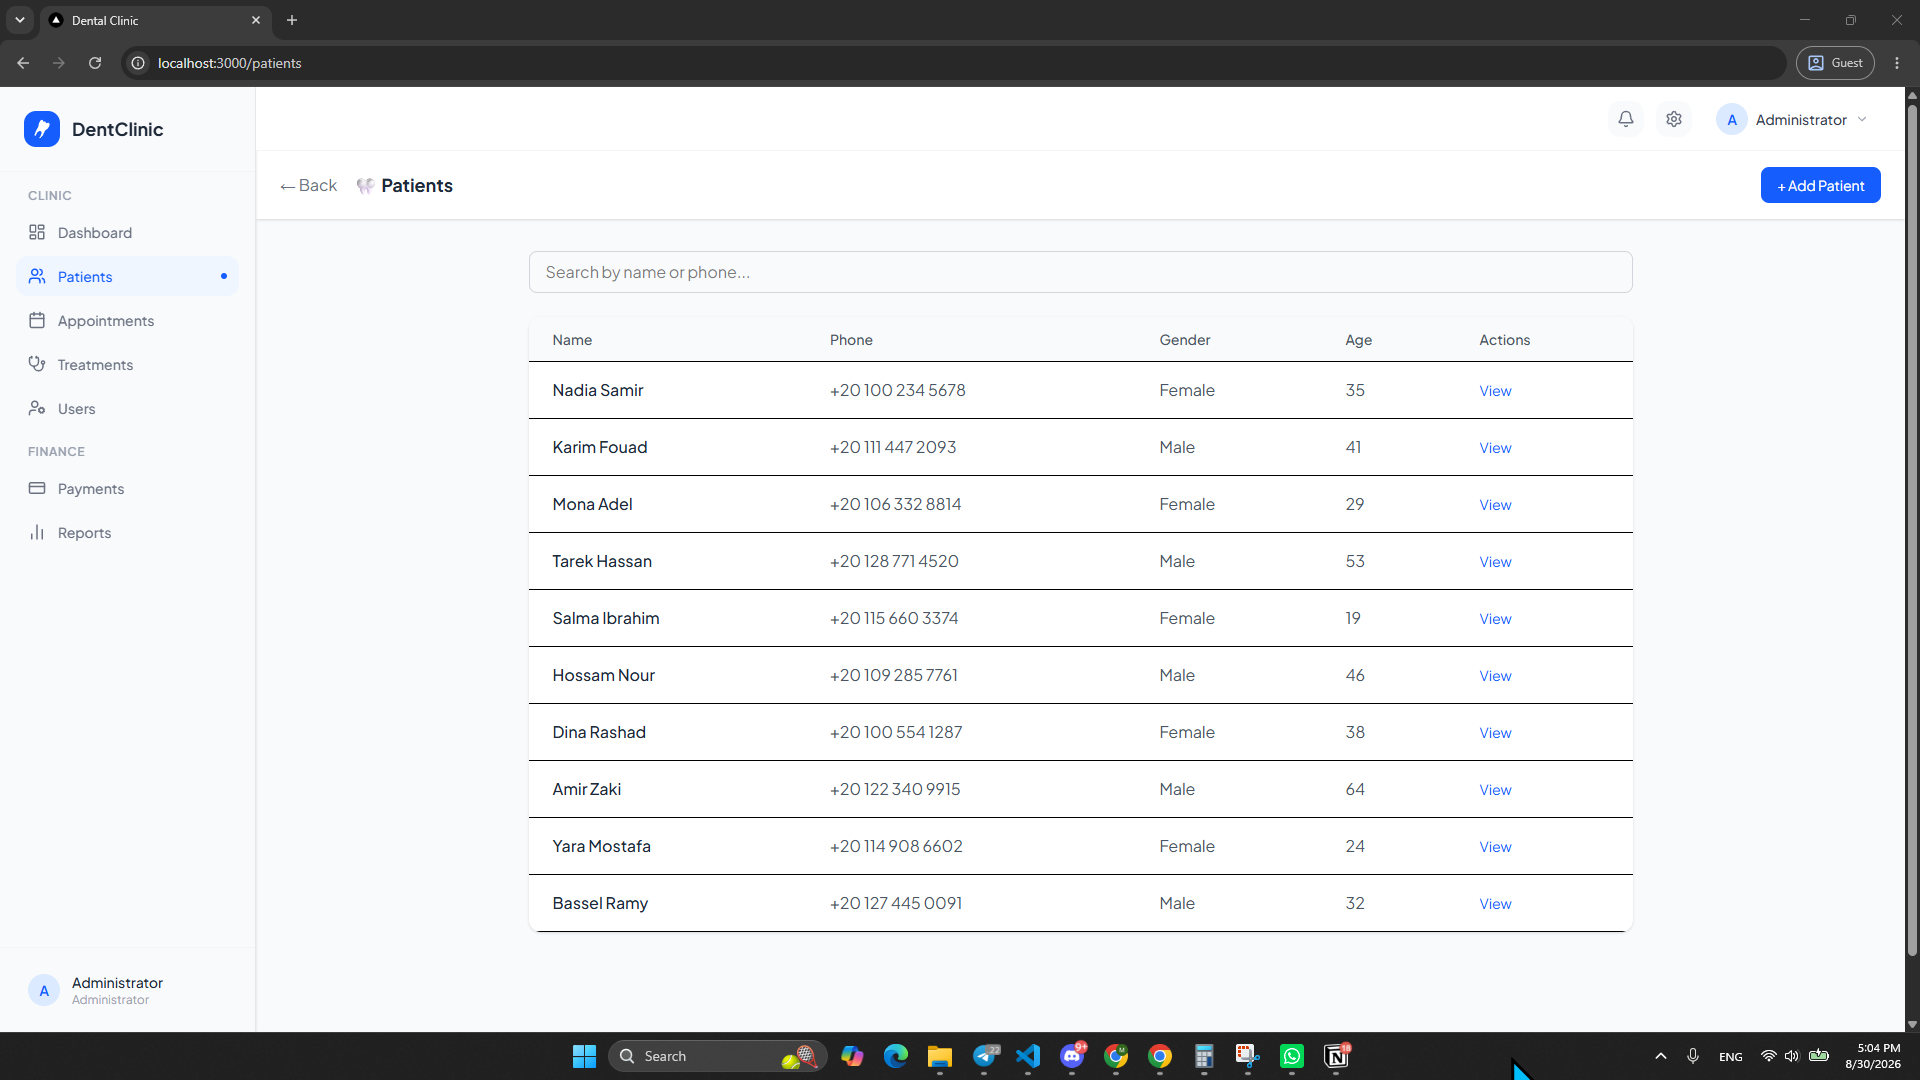
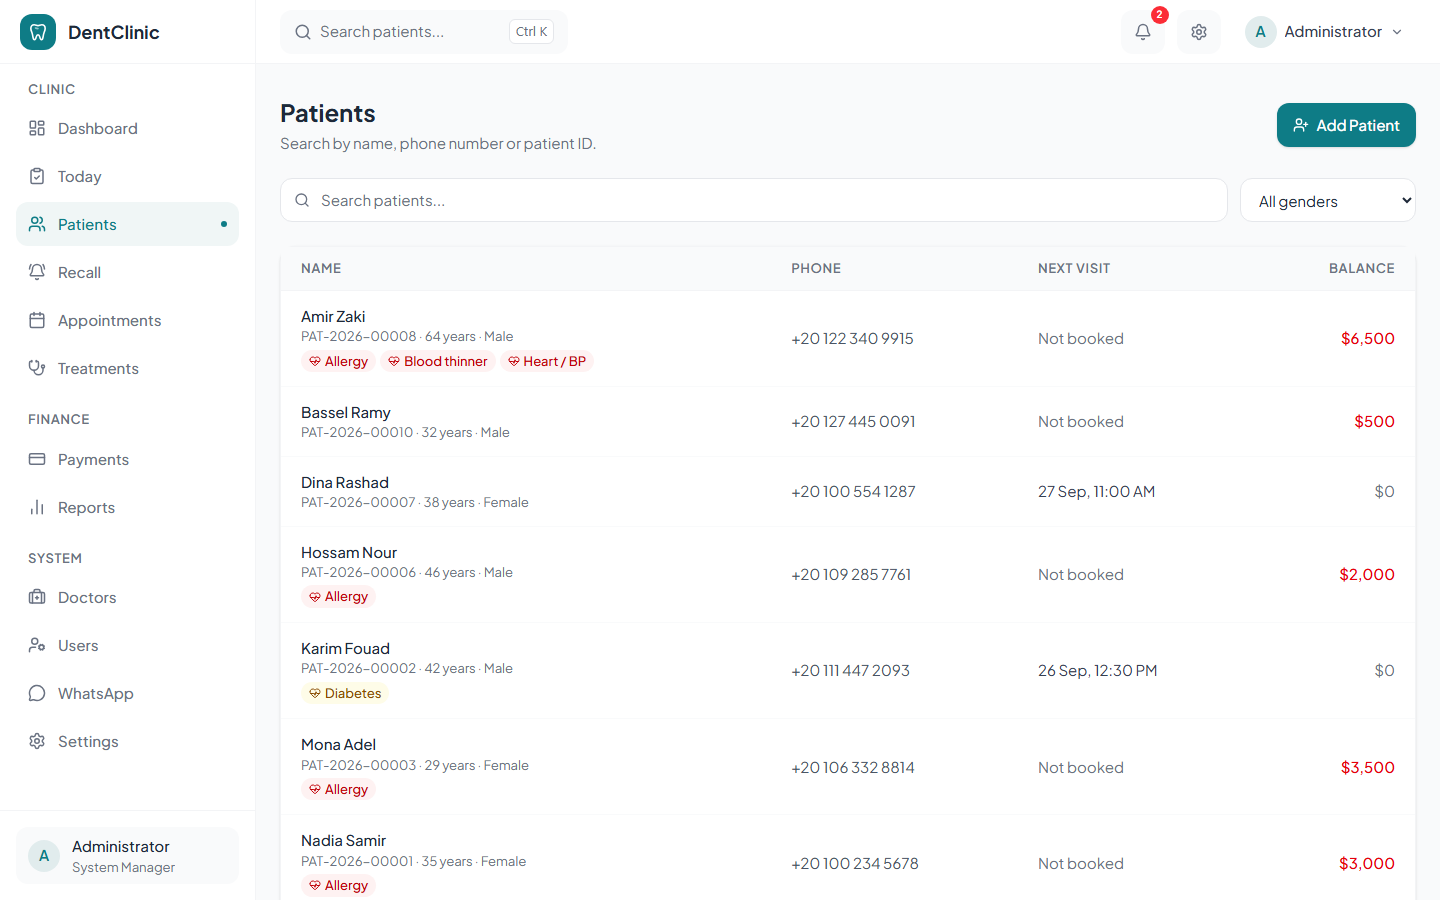
docs: retake README screenshots with the new design
Adds npm run screenshots:readme (a readme Playwright project) that writes
docs/screenshots, and new Today, patient and dental chart pictures.

diff --git a/e2e/readme/readme-shots.spec.ts b/e2e/readme/readme-shots.spec.ts
@@ -1,0 +1,50 @@
+import { test, type Page } from "@playwright/test";
+import { waitForData } from "../helpers";
+
+/**
+ * The pictures in README.md. Run `npm run screenshots:readme` after a visible change and commit
+ * docs/screenshots. Desktop size, showing the dummy data.
+ */
+test.use({ viewport: { width: 1440, height: 900 } });
+
+const OUT = "docs/screenshots";
+const userId = (email: string) => encodeURIComponent(Buffer.from(email).toString("base64"));
+
+async function shot(page: Page, path: string, name: string) {
+  await page.goto(path);
+  await waitForData(page);
+  await page.waitForTimeout(500);
+  await page.screenshot({ path: `${OUT}/${name}.png` });
+}
+
+test("readme screenshots", async ({ page }) => {
+  await shot(page, "/dashboard", "dashboard");
+  await shot(page, "/today", "today");
+  await shot(page, "/patients", "patients");
+  await shot(page, "/patients/PAT-2026-00008", "patient");
+  await shot(page, "/appointments?view=day", "appointments");
+  await shot(page, "/treatments", "treatments");
+  await shot(page, "/payments", "payments");
+  await shot(page, "/reports", "reports");
+  await shot(page, `/users/${userId("ahmed.ezzat@dentclinic.test")}`, "permissions");
+  await shot(page, `/users/${userId("mariam.saeed@dentclinic.test")}`, "permissions-partial");
+  await shot(page, "/users", "users");
+
+  // The outstanding balances further down the reports page.
+  await page.goto("/reports");
+  await waitForData(page);
+  await page.getByRole("heading", { name: "Outstanding Balances" }).evaluate((el) => el.scrollIntoView({ block: "start" }));
+  await page.mouse.wheel(0, -80);
+  await page.waitForTimeout(400);
+  await page.screenshot({ path: `${OUT}/reports-outstanding.png` });
+
+  // The dental chart with a tooth open.
+  await page.goto("/patients/PAT-2026-00001");
+  await waitForData(page);
+  await page.getByRole("tab", { name: "Dental Chart" }).click();
+  await page.getByRole("button", { name: /^Tooth 36,/ }).click();
+  await page.getByRole("heading", { name: "Dental Chart" }).evaluate((el) => el.scrollIntoView({ block: "start" }));
+  await page.mouse.wheel(0, -90);
+  await page.waitForTimeout(400);
+  await page.screenshot({ path: `${OUT}/dental-chart.png` });
+});

diff --git a/playwright.config.ts b/playwright.config.ts
@@ -6,6 +6,7 @@ import { defineConfig, devices } from "@playwright/test";
  *
  *   npm run test:e2e      the tests in e2e/tests
  *   npm run screenshots   every page at desktop, tablet and phone size, saved to screenshots/
+ *   npm run screenshots:readme   the pictures in README.md, saved to docs/screenshots/
  */
 const PORT = Number(process.env.E2E_PORT || 3100);
 const BASE_URL = `http://localhost:${PORT}`;
@@ -29,6 +30,11 @@ export default defineConfig({
     {
       name: "screens",
       testDir: "e2e/screens",
+      use: { ...devices["Desktop Chrome"] },
+    },
+    {
+      name: "readme",
+      testDir: "e2e/readme",
       use: { ...devices["Desktop Chrome"] },
     },
   ],

diff --git a/README.md b/README.md
@@ -14,8 +14,6 @@ calculations, role-based access, scheduled reports and WhatsApp appointment remi
 > you can clone it and see every screen without standing up Frappe first. Both are single flags —
 > see [Running against the real backend](#running-against-the-real-backend). To see the app as a
 > receptionist or a doctor, open **Profile → Try Another User**.
->
-> The screenshots below show the older design and will be retaken.
 
 ---
 
@@ -76,14 +74,24 @@ own `fetch`. That is what makes the dummy-data switch a one-line change.
 
 ## Screens
 
+The pictures are taken from the running app with the dummy data (`npm run screenshots:readme`).
+
 <table>
 <tr>
-<td width="50%"><img src="docs/screenshots/patients.png" alt="Patients"><br><b>Patients</b> — searchable by name or phone.</td>
-<td width="50%"><img src="docs/screenshots/appointments.png" alt="Appointments"><br><b>Appointments</b> — filter by status; colour-coded badges.</td>
+<td width="50%"><img src="docs/screenshots/today.png" alt="Today board"><br><b>Today</b> — the front desk's day by doctor: one tap to confirm, complete or mark a no-show, late patients highlighted, balances and quick payments.</td>
+<td width="50%"><img src="docs/screenshots/appointments.png" alt="Appointment calendar"><br><b>Appointments</b> — a day calendar with a column per doctor and their working hours; click a free time to book, drag to move.</td>
 </tr>
 <tr>
+<td><img src="docs/screenshots/patient.png" alt="Patient page"><br><b>Patient</b> — medical alerts on top, call and WhatsApp, last and next visit, balance, and a timeline.</td>
+<td><img src="docs/screenshots/dental-chart.png" alt="Dental chart"><br><b>Dental chart</b> — adult and child teeth, the five surfaces, crowns, root canals, implants and more, with a note per tooth.</td>
+</tr>
+<tr>
+<td><img src="docs/screenshots/patients.png" alt="Patients"><br><b>Patients</b> — search by name, phone or ID; alerts and the next visit at a glance.</td>
 <td><img src="docs/screenshots/treatments.png" alt="Treatments"><br><b>Treatment plans</b> — type, tooth, cost and remaining balance.</td>
-<td><img src="docs/screenshots/payments.png" alt="Payments"><br><b>Payments</b> — linked to a patient and a treatment plan.</td>
+</tr>
+<tr>
+<td><img src="docs/screenshots/payments.png" alt="Payments"><br><b>Payments</b> — linked to a patient and a plan, with printable receipts and an end-of-day report.</td>
+<td><img src="docs/screenshots/dashboard.png" alt="Dashboard"><br><b>Dashboard</b> — today, the next seven days, and the month's money.</td>
 </tr>
 </table>
 
@@ -293,6 +301,7 @@ npm run build             # production build
 npx playwright install chromium   # once, before the first test run
 npm run test:e2e          # browser tests (builds, then serves on port 3100)
 npm run screenshots       # every page at desktop, tablet and phone size, into screenshots/
+npm run screenshots:readme   # the pictures in this README, into docs/screenshots/
 ```
 
 The browser tests walk through the daily work: adding a patient, booking an appointment (and the

diff --git a/AGENTS.md b/AGENTS.md
@@ -47,6 +47,7 @@ Both flags are set this way on purpose. Leave them alone unless the task is abou
 | `npx tsc --noEmit` | Type-check only. It also checks the route types Next generates in `.next/` (created by `dev`/`build`). |
 | `npm run test:e2e` | Playwright tests in `e2e/tests` (Chromium only). Builds, then serves the build on port **3100** (`E2E_PORT`), so it never clashes with `npm run dev` on 3000. `SKIP_BUILD=1` reuses the last build. Output goes to `test-results/` and `playwright-report/` (ignored by git). |
 | `npm run screenshots` | Full-page screenshots of every page at desktop 1440×900, tablet 1024×768 and phone 390×844, saved to `screenshots/<size>/<page>.png` (ignored by git). `PAGES=dashboard,patients` limits it; `SKIP_BUILD=1` works here too. |
+| `npm run screenshots:readme` | Retakes the pictures in `README.md` into `docs/screenshots/` (desktop, dummy data). Run it after a visible change and commit the images. `SKIP_BUILD=1` works here too |
 
 The Frappe address comes from the `FRAPPE_URL` environment variable (for example in `.env.local`), default
 `http://dent_clinic.localhost:8000`. See `next.config.ts`.
@@ -164,7 +165,7 @@ src/
     └── links.ts              URL builders for records (always use these)
 docs/
 ├── backend-todo.md           what the back end must provide for this front end
-└── screenshots/              images used by README.md (from the older design; retake them)
+└── screenshots/              images used by README.md (retake with npm run screenshots:readme)
 public/                       placeholder SVGs from create-next-app (unused)
 e2e/
 ├── helpers.ts                waitForData, navigate (client-side, keeps the dummy data), openFromMenu, pickLink
@@ -602,7 +603,6 @@ Updated on 2026-09-26.
 - **No right-to-left layout yet.** The classes are ready (see Styling), but there is no Arabic text or `dir`
   switch.
 - `enable_patient_portal` is saved but not used by the front end.
-- `README.md` screenshots show the older design.
 - Deleting is blocked for records that others link to (Frappe's normal rule). Users are disabled, not deleted.
 
 ---

diff --git a/IMPROVEMENTS.md b/IMPROVEMENTS.md
@@ -5,8 +5,6 @@ Each finished item says what changed, when, and which commit holds it.
 
 ## Now
 
-- Retake the README screenshots (docs/screenshots) so they show the new design; they still show the old
-  blue look.
 
 ## Backlog
 
@@ -126,7 +124,10 @@ Each finished item says what changed, when, and which commit holds it.
 - 2026-09-26 - **Patient list with alerts and next visit.** Each patient in the list now shows small red
   or yellow markers for medical alerts (allergy, blood thinner, heart, diabetes, pregnancy) and the date
   and time of their next booked visit. Age and gender moved next to the patient ID, so the list fits a
-  tablet without cutting off the balance. Commit PENDING.
+  tablet without cutting off the balance. Commit 3ba0c5e.
+- 2026-09-26 - **New README pictures.** The pictures in the README now show the new design, including the
+  Today board, the calendar, the patient page and the dental chart. They can be retaken any time with one
+  command (npm run screenshots:readme). Commit PENDING.
 
 ## Questions for the owner
 
